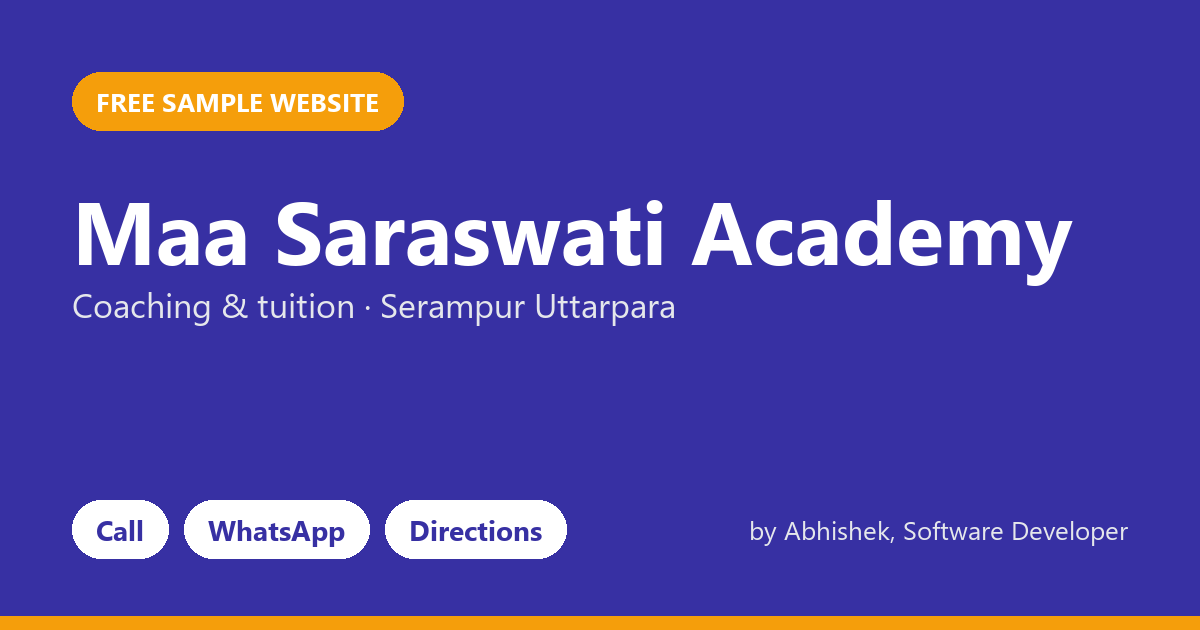
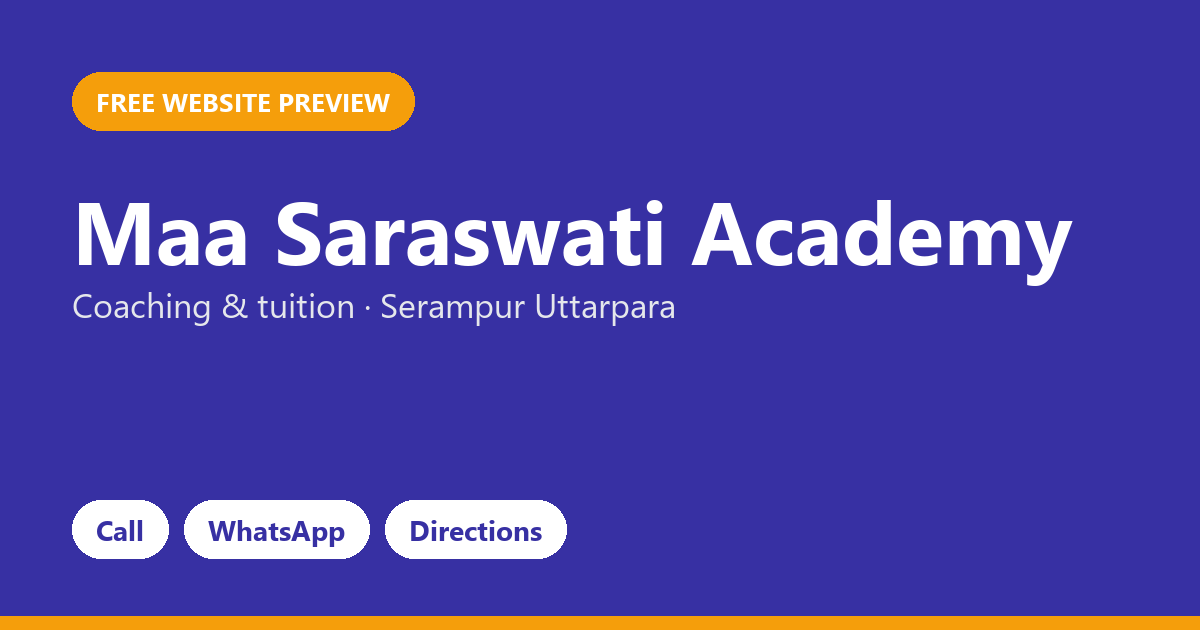
Previews: drop price and personal name (66-70 of 139)

Changed region(s): [[0.6167, 0.8143, 0.925, 0.8746], [0.1233, 0.1206, 0.37, 0.2111]]

diff --git a/p/maa-saraswati-academy-serampur-uttarpara-0939/index.html b/p/maa-saraswati-academy-serampur-uttarpara-0939/index.html
@@ -6,8 +6,8 @@
 <title>Maa Saraswati Academy | Coaching &amp; tuition in Serampur Uttarpara</title>
 <meta name="description" content="Concept-first teaching, small batches and regular tests that build real results.">
 <meta property="og:type" content="website">
-<meta property="og:title" content="Maa Saraswati Academy · Free sample website">
-<meta property="og:description" content="Made by Abhishek, Software Developer. Call, WhatsApp and directions in one tap.">
+<meta property="og:title" content="Maa Saraswati Academy · Free website preview">
+<meta property="og:description" content="Call, WhatsApp and directions in one tap.">
 <meta property="og:url" content="https://roguestar03.github.io/p/maa-saraswati-academy-serampur-uttarpara-0939/">
 <meta property="og:image" content="https://roguestar03.github.io/p/maa-saraswati-academy-serampur-uttarpara-0939/og.png">
 <meta property="og:image:width" content="1200">
@@ -167,7 +167,7 @@ footer{padding:40px 0 110px;border-top:1px solid var(--line);font-size:14px;colo
 </style>
 </head>
 <body>
-<div class="pv">Sample website made for <b>Maa Saraswati Academy</b> by <b>Abhishek</b>. Not the official website yet. <b>Like it?</b> Make it yours for ₹1,999. Contact: <a href="mailto:abhishekkayasth87@gmail.com">abhishekkayasth87@gmail.com</a> · <a href="https://www.linkedin.com/in/abhishek-kayasth-050250239/" target="_blank" rel="noopener">LinkedIn</a></div>
+<div class="pv">Free website preview for <b>Maa Saraswati Academy</b>. Not the official website yet. <b>Like it?</b> Just reply to our message. Contact: <a href="mailto:abhishekkayasth87@gmail.com">abhishekkayasth87@gmail.com</a> · <a href="https://www.linkedin.com/in/abhishek-kayasth-050250239/" target="_blank" rel="noopener">LinkedIn</a></div>
 <header>
   <div class="wrap nav">
     <a href="#top" class="logo"><span class="mark">MS</span><span class="t">Maa Saraswati Academy</span></a>
@@ -259,7 +259,7 @@ footer{padding:40px 0 110px;border-top:1px solid var(--line);font-size:14px;colo
       <div><b style="color:var(--ink)">Maa Saraswati Academy</b><br>43, Jitendranath Lahiri Rd, near Jagorni Club, Serampur Uttarpara<p class="soc"><a href="https://www.facebook.com/1324385780943898" target="_blank" rel="noopener">Facebook</a></p></div>
       <div>+91 82729 80939<br>&copy; 2026 Maa Saraswati Academy</div>
     </div>
-    <p class="credit">Sample website by Abhishek, Software Developer · <a href="mailto:abhishekkayasth87@gmail.com">abhishekkayasth87@gmail.com</a> · <a href="https://www.linkedin.com/in/abhishek-kayasth-050250239/" target="_blank" rel="noopener">LinkedIn</a></p>
+    <p class="credit">Website preview · <a href="mailto:abhishekkayasth87@gmail.com">abhishekkayasth87@gmail.com</a> · <a href="https://www.linkedin.com/in/abhishek-kayasth-050250239/" target="_blank" rel="noopener">LinkedIn</a></p>
   </div>
 </footer>
 

diff --git a/p/mantra-homoeopathy-clinic-sangli-7995/index.html b/p/mantra-homoeopathy-clinic-sangli-7995/index.html
@@ -6,8 +6,8 @@
 <title>Mantra Homoeopathy Clinic | Clinic in Sangli</title>
 <meta name="description" content="Trusted healthcare close to home. Consult, get treated and follow up with ease.">
 <meta property="og:type" content="website">
-<meta property="og:title" content="Mantra Homoeopathy Clinic · Free sample website">
-<meta property="og:description" content="Made by Abhishek, Software Developer. Call, WhatsApp and directions in one tap.">
+<meta property="og:title" content="Mantra Homoeopathy Clinic · Free website preview">
+<meta property="og:description" content="Call, WhatsApp and directions in one tap.">
 <meta property="og:url" content="https://roguestar03.github.io/p/mantra-homoeopathy-clinic-sangli-7995/">
 <meta property="og:image" content="https://roguestar03.github.io/p/mantra-homoeopathy-clinic-sangli-7995/og.png">
 <meta property="og:image:width" content="1200">
@@ -167,7 +167,7 @@ footer{padding:40px 0 110px;border-top:1px solid var(--line);font-size:14px;colo
 </style>
 </head>
 <body>
-<div class="pv">Sample website made for <b>Mantra Homoeopathy Clinic</b> by <b>Abhishek</b>. Not the official website yet. <b>Like it?</b> Make it yours for ₹1,999. Contact: <a href="mailto:abhishekkayasth87@gmail.com">abhishekkayasth87@gmail.com</a> · <a href="https://www.linkedin.com/in/abhishek-kayasth-050250239/" target="_blank" rel="noopener">LinkedIn</a></div>
+<div class="pv">Free website preview for <b>Mantra Homoeopathy Clinic</b>. Not the official website yet. <b>Like it?</b> Just reply to our message. Contact: <a href="mailto:abhishekkayasth87@gmail.com">abhishekkayasth87@gmail.com</a> · <a href="https://www.linkedin.com/in/abhishek-kayasth-050250239/" target="_blank" rel="noopener">LinkedIn</a></div>
 <header>
   <div class="wrap nav">
     <a href="#top" class="logo"><span class="mark">MH</span><span class="t">Mantra Homoeopathy Clinic</span></a>
@@ -259,7 +259,7 @@ footer{padding:40px 0 110px;border-top:1px solid var(--line);font-size:14px;colo
       <div><b style="color:var(--ink)">Mantra Homoeopathy Clinic</b><br>Aarohi bunglow, 80 ft road,opp. Cct, spurti chowk, vishrambag,, Sangli<p class="soc"><a href="https://www.facebook.com/1190474751015292" target="_blank" rel="noopener">Facebook</a></p></div>
       <div>+91 95797 37995<br>&copy; 2026 Mantra Homoeopathy Clinic</div>
     </div>
-    <p class="credit">Sample website by Abhishek, Software Developer · <a href="mailto:abhishekkayasth87@gmail.com">abhishekkayasth87@gmail.com</a> · <a href="https://www.linkedin.com/in/abhishek-kayasth-050250239/" target="_blank" rel="noopener">LinkedIn</a></p>
+    <p class="credit">Website preview · <a href="mailto:abhishekkayasth87@gmail.com">abhishekkayasth87@gmail.com</a> · <a href="https://www.linkedin.com/in/abhishek-kayasth-050250239/" target="_blank" rel="noopener">LinkedIn</a></p>
   </div>
 </footer>
 

diff --git a/p/mavi-academy-and-library-meerut-5507/index.html b/p/mavi-academy-and-library-meerut-5507/index.html
@@ -6,8 +6,8 @@
 <title>Mavi Academy and Library | Coaching &amp; tuition in Meerut</title>
 <meta name="description" content="Concept-first teaching, small batches and regular tests that build real results.">
 <meta property="og:type" content="website">
-<meta property="og:title" content="Mavi Academy and Library · Free sample website">
-<meta property="og:description" content="Made by Abhishek, Software Developer. Call, WhatsApp and directions in one tap.">
+<meta property="og:title" content="Mavi Academy and Library · Free website preview">
+<meta property="og:description" content="Call, WhatsApp and directions in one tap.">
 <meta property="og:url" content="https://roguestar03.github.io/p/mavi-academy-and-library-meerut-5507/">
 <meta property="og:image" content="https://roguestar03.github.io/p/mavi-academy-and-library-meerut-5507/og.png">
 <meta property="og:image:width" content="1200">
@@ -167,7 +167,7 @@ footer{padding:40px 0 110px;border-top:1px solid var(--line);font-size:14px;colo
 </style>
 </head>
 <body>
-<div class="pv">Sample website made for <b>Mavi Academy and Library</b> by <b>Abhishek</b>. Not the official website yet. <b>Like it?</b> Make it yours for ₹1,999. Contact: <a href="mailto:abhishekkayasth87@gmail.com">abhishekkayasth87@gmail.com</a> · <a href="https://www.linkedin.com/in/abhishek-kayasth-050250239/" target="_blank" rel="noopener">LinkedIn</a></div>
+<div class="pv">Free website preview for <b>Mavi Academy and Library</b>. Not the official website yet. <b>Like it?</b> Just reply to our message. Contact: <a href="mailto:abhishekkayasth87@gmail.com">abhishekkayasth87@gmail.com</a> · <a href="https://www.linkedin.com/in/abhishek-kayasth-050250239/" target="_blank" rel="noopener">LinkedIn</a></div>
 <header>
   <div class="wrap nav">
     <a href="#top" class="logo"><span class="mark">MA</span><span class="t">Mavi Academy and Library</span></a>
@@ -259,7 +259,7 @@ footer{padding:40px 0 110px;border-top:1px solid var(--line);font-size:14px;colo
       <div><b style="color:var(--ink)">Mavi Academy and Library</b><br>2 Floor, Western Plaza, PL Sharma Rd, Meerut<p class="soc"><a href="https://www.facebook.com/109651415036237" target="_blank" rel="noopener">Facebook</a></p></div>
       <div>+91 96345 95507<br>&copy; 2026 Mavi Academy and Library</div>
     </div>
-    <p class="credit">Sample website by Abhishek, Software Developer · <a href="mailto:abhishekkayasth87@gmail.com">abhishekkayasth87@gmail.com</a> · <a href="https://www.linkedin.com/in/abhishek-kayasth-050250239/" target="_blank" rel="noopener">LinkedIn</a></p>
+    <p class="credit">Website preview · <a href="mailto:abhishekkayasth87@gmail.com">abhishekkayasth87@gmail.com</a> · <a href="https://www.linkedin.com/in/abhishek-kayasth-050250239/" target="_blank" rel="noopener">LinkedIn</a></p>
   </div>
 </footer>
 

diff --git a/p/main-masters-academy-nawanshahr-5093/index.html b/p/main-masters-academy-nawanshahr-5093/index.html
@@ -6,8 +6,8 @@
 <title>Main Masters Academy | Coaching &amp; tuition in Nawanshahr</title>
 <meta name="description" content="Concept-first teaching, small batches and regular tests that build real results.">
 <meta property="og:type" content="website">
-<meta property="og:title" content="Main Masters Academy · Free sample website">
-<meta property="og:description" content="Made by Abhishek, Software Developer. Call, WhatsApp and directions in one tap.">
+<meta property="og:title" content="Main Masters Academy · Free website preview">
+<meta property="og:description" content="Call, WhatsApp and directions in one tap.">
 <meta property="og:url" content="https://roguestar03.github.io/p/main-masters-academy-nawanshahr-5093/">
 <meta property="og:image" content="https://roguestar03.github.io/p/main-masters-academy-nawanshahr-5093/og.png">
 <meta property="og:image:width" content="1200">
@@ -167,7 +167,7 @@ footer{padding:40px 0 110px;border-top:1px solid var(--line);font-size:14px;colo
 </style>
 </head>
 <body>
-<div class="pv">Sample website made for <b>Main Masters Academy</b> by <b>Abhishek</b>. Not the official website yet. <b>Like it?</b> Make it yours for ₹1,999. Contact: <a href="mailto:abhishekkayasth87@gmail.com">abhishekkayasth87@gmail.com</a> · <a href="https://www.linkedin.com/in/abhishek-kayasth-050250239/" target="_blank" rel="noopener">LinkedIn</a></div>
+<div class="pv">Free website preview for <b>Main Masters Academy</b>. Not the official website yet. <b>Like it?</b> Just reply to our message. Contact: <a href="mailto:abhishekkayasth87@gmail.com">abhishekkayasth87@gmail.com</a> · <a href="https://www.linkedin.com/in/abhishek-kayasth-050250239/" target="_blank" rel="noopener">LinkedIn</a></div>
 <header>
   <div class="wrap nav">
     <a href="#top" class="logo"><span class="mark">MM</span><span class="t">Main Masters Academy</span></a>
@@ -259,7 +259,7 @@ footer{padding:40px 0 110px;border-top:1px solid var(--line);font-size:14px;colo
       <div><b style="color:var(--ink)">Main Masters Academy</b><br>Main Masters Academy, Near Domino&#x27;s Banga Road, Nawanshahr<p class="soc"><a href="https://www.facebook.com/105450375128650" target="_blank" rel="noopener">Facebook</a></p></div>
       <div>+91 98772 35093<br>&copy; 2026 Main Masters Academy</div>
     </div>
-    <p class="credit">Sample website by Abhishek, Software Developer · <a href="mailto:abhishekkayasth87@gmail.com">abhishekkayasth87@gmail.com</a> · <a href="https://www.linkedin.com/in/abhishek-kayasth-050250239/" target="_blank" rel="noopener">LinkedIn</a></p>
+    <p class="credit">Website preview · <a href="mailto:abhishekkayasth87@gmail.com">abhishekkayasth87@gmail.com</a> · <a href="https://www.linkedin.com/in/abhishek-kayasth-050250239/" target="_blank" rel="noopener">LinkedIn</a></p>
   </div>
 </footer>
 

diff --git a/p/mamdani-dental-care-sillod-8340/index.html b/p/mamdani-dental-care-sillod-8340/index.html
@@ -6,8 +6,8 @@
 <title>Mamdani Dental Care | Dental clinic in Sillod</title>
 <meta name="description" content="Gentle, modern dental care for the whole family. Book your visit in under a minute.">
 <meta property="og:type" content="website">
-<meta property="og:title" content="Mamdani Dental Care · Free sample website">
-<meta property="og:description" content="Made by Abhishek, Software Developer. Call, WhatsApp and directions in one tap.">
+<meta property="og:title" content="Mamdani Dental Care · Free website preview">
+<meta property="og:description" content="Call, WhatsApp and directions in one tap.">
 <meta property="og:url" content="https://roguestar03.github.io/p/mamdani-dental-care-sillod-8340/">
 <meta property="og:image" content="https://roguestar03.github.io/p/mamdani-dental-care-sillod-8340/og.png">
 <meta property="og:image:width" content="1200">
@@ -167,7 +167,7 @@ footer{padding:40px 0 110px;border-top:1px solid var(--line);font-size:14px;colo
 </style>
 </head>
 <body>
-<div class="pv">Sample website made for <b>Mamdani Dental Care</b> by <b>Abhishek</b>. Not the official website yet. <b>Like it?</b> Make it yours for ₹1,999. Contact: <a href="mailto:abhishekkayasth87@gmail.com">abhishekkayasth87@gmail.com</a> · <a href="https://www.linkedin.com/in/abhishek-kayasth-050250239/" target="_blank" rel="noopener">LinkedIn</a></div>
+<div class="pv">Free website preview for <b>Mamdani Dental Care</b>. Not the official website yet. <b>Like it?</b> Just reply to our message. Contact: <a href="mailto:abhishekkayasth87@gmail.com">abhishekkayasth87@gmail.com</a> · <a href="https://www.linkedin.com/in/abhishek-kayasth-050250239/" target="_blank" rel="noopener">LinkedIn</a></div>
 <header>
   <div class="wrap nav">
     <a href="#top" class="logo"><span class="mark">MD</span><span class="t">Mamdani Dental Care</span></a>
@@ -259,7 +259,7 @@ footer{padding:40px 0 110px;border-top:1px solid var(--line);font-size:14px;colo
       <div><b style="color:var(--ink)">Mamdani Dental Care</b><br>Juni bhaji mandi, Main Rd, in front of wasaikar Tower, Sillod<p class="soc"><a href="https://www.facebook.com/248189058718362" target="_blank" rel="noopener">Facebook</a></p></div>
       <div>+91 89289 28340<br>&copy; 2026 Mamdani Dental Care</div>
     </div>
-    <p class="credit">Sample website by Abhishek, Software Developer · <a href="mailto:abhishekkayasth87@gmail.com">abhishekkayasth87@gmail.com</a> · <a href="https://www.linkedin.com/in/abhishek-kayasth-050250239/" target="_blank" rel="noopener">LinkedIn</a></p>
+    <p class="credit">Website preview · <a href="mailto:abhishekkayasth87@gmail.com">abhishekkayasth87@gmail.com</a> · <a href="https://www.linkedin.com/in/abhishek-kayasth-050250239/" target="_blank" rel="noopener">LinkedIn</a></p>
   </div>
 </footer>
 
